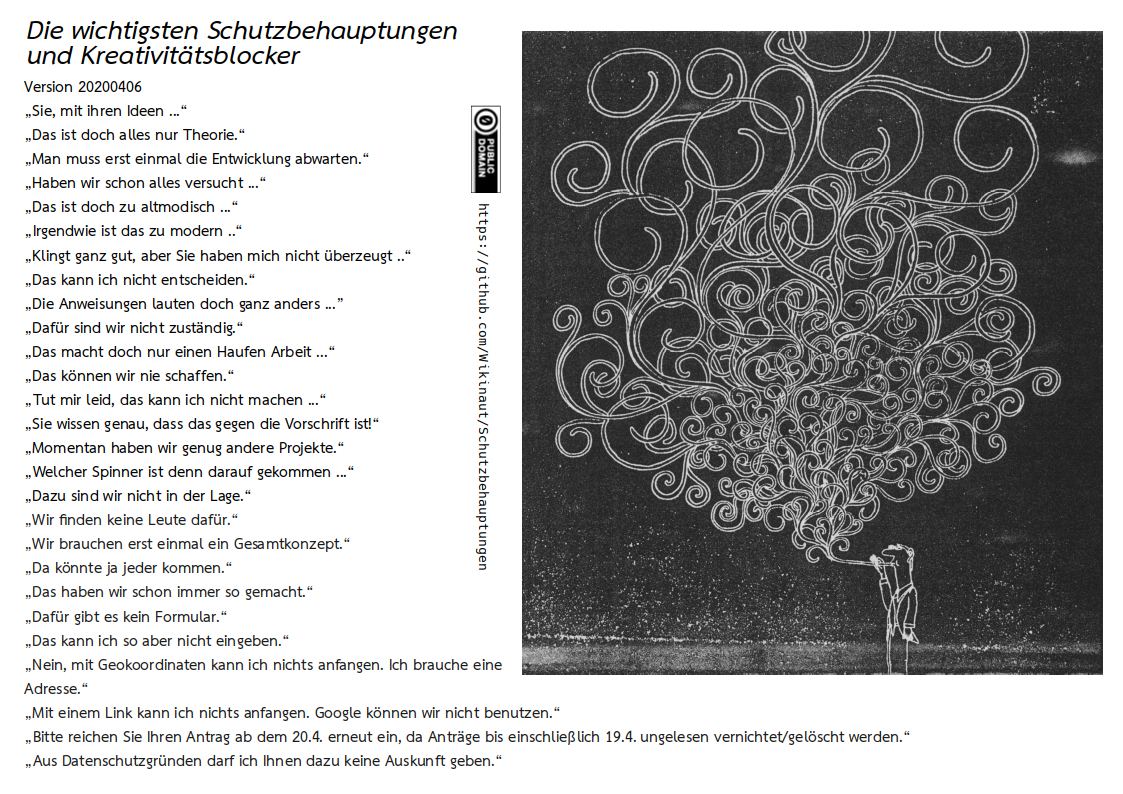
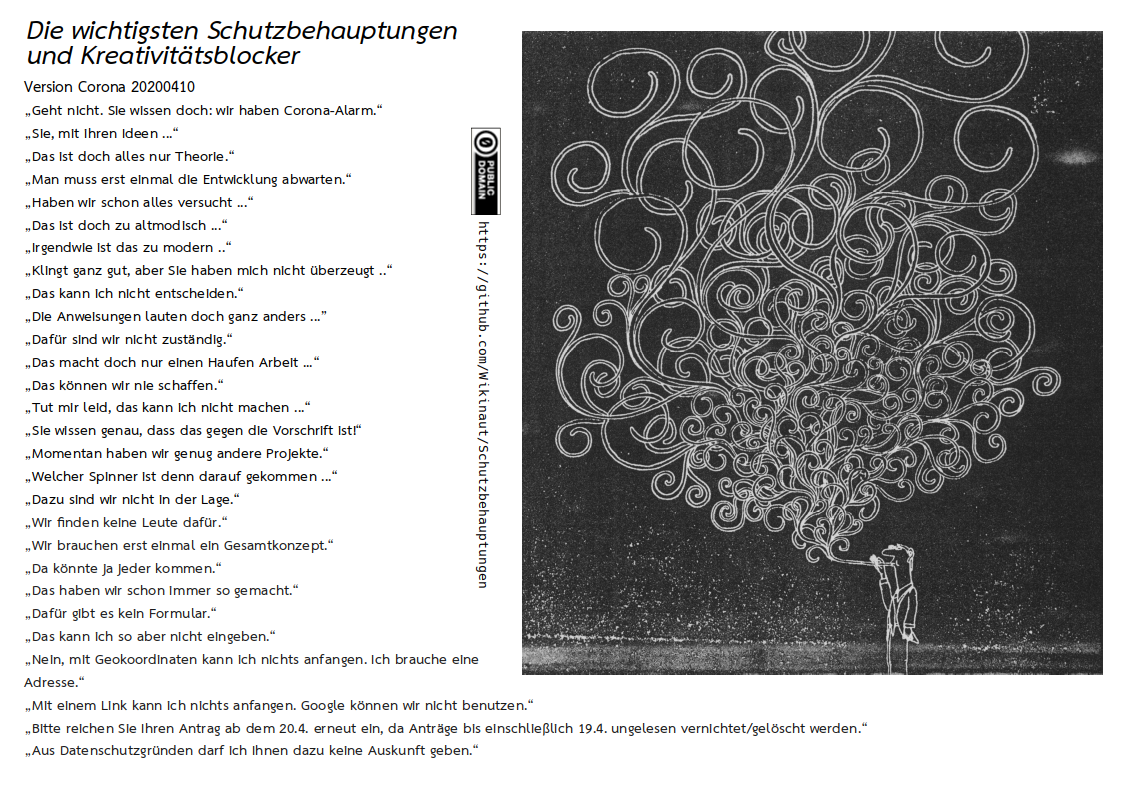
Version "Corona"

Changed region(s): [[0.0, 0.0907, 0.8103, 0.9673], [0.4052, 0.1209, 0.4675, 0.7254]]

diff --git a/README.md b/README.md
@@ -24,8 +24,9 @@ Fehlt etwas? Bitte pull-request machen!
 
 ```
 Die wichtigsten Schutzbehauptungen und Kreativitätsblocker
-Version 20200406
+Version Corona 20200410
 
+„Geht nicht. Sie wissen doch: wir haben Corona-Alarm.“
 „Sie, mit ihren Ideen ...“
 „Das ist doch alles nur Theorie.“
 „Man muss erst einmal die Entwicklung abwarten.“
